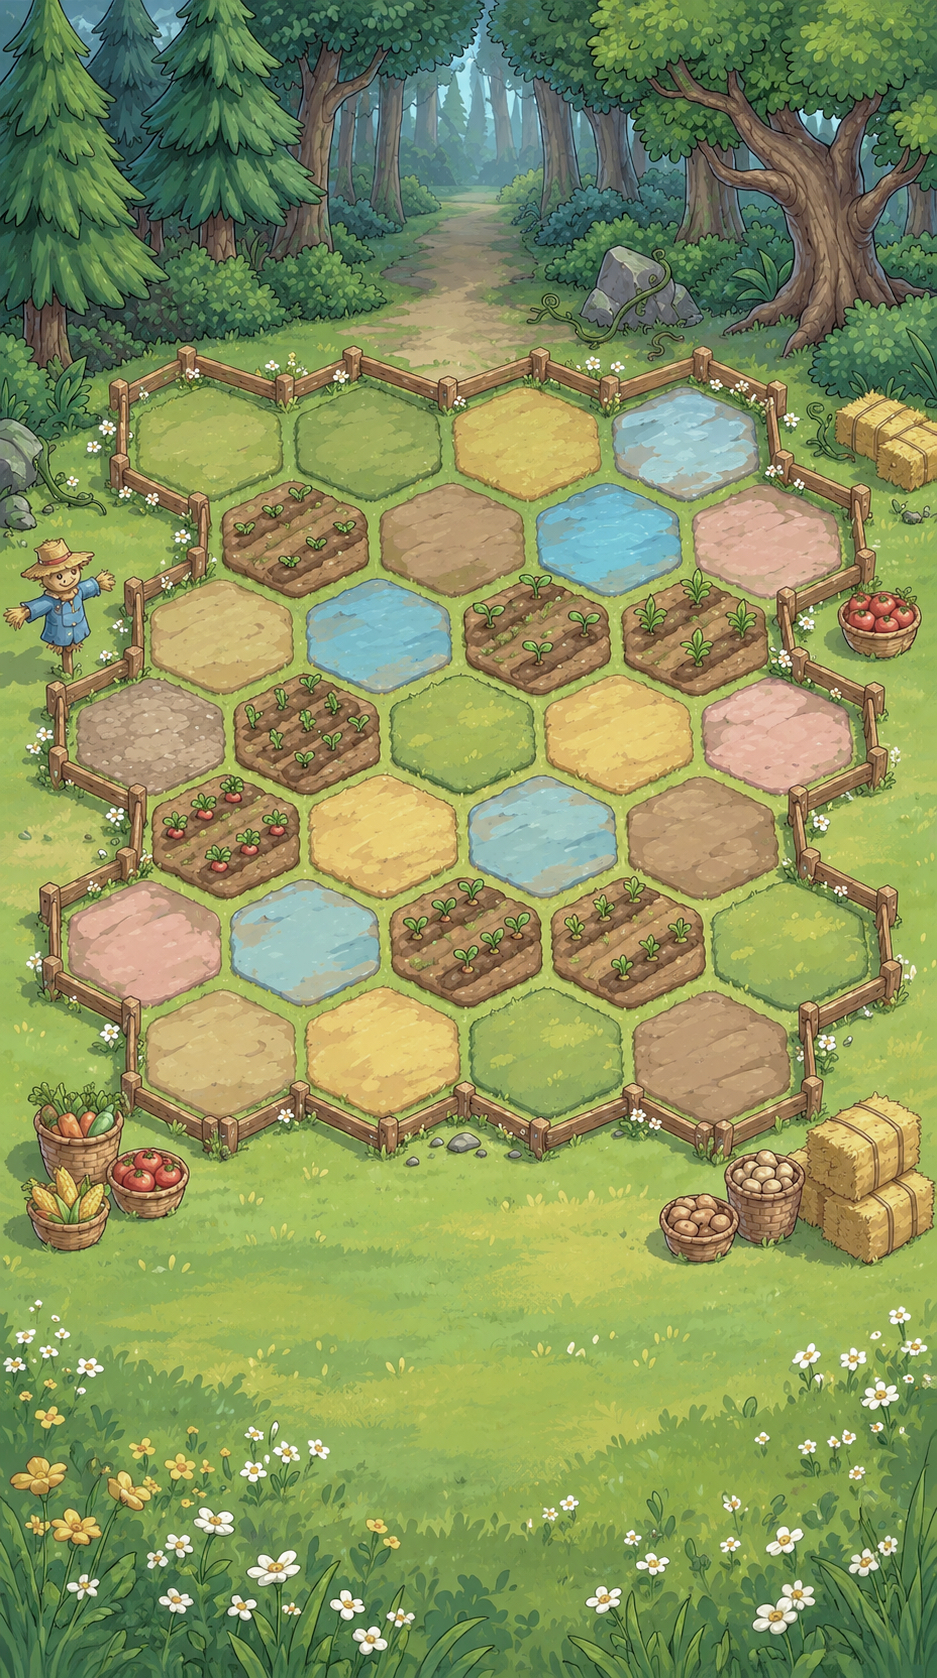
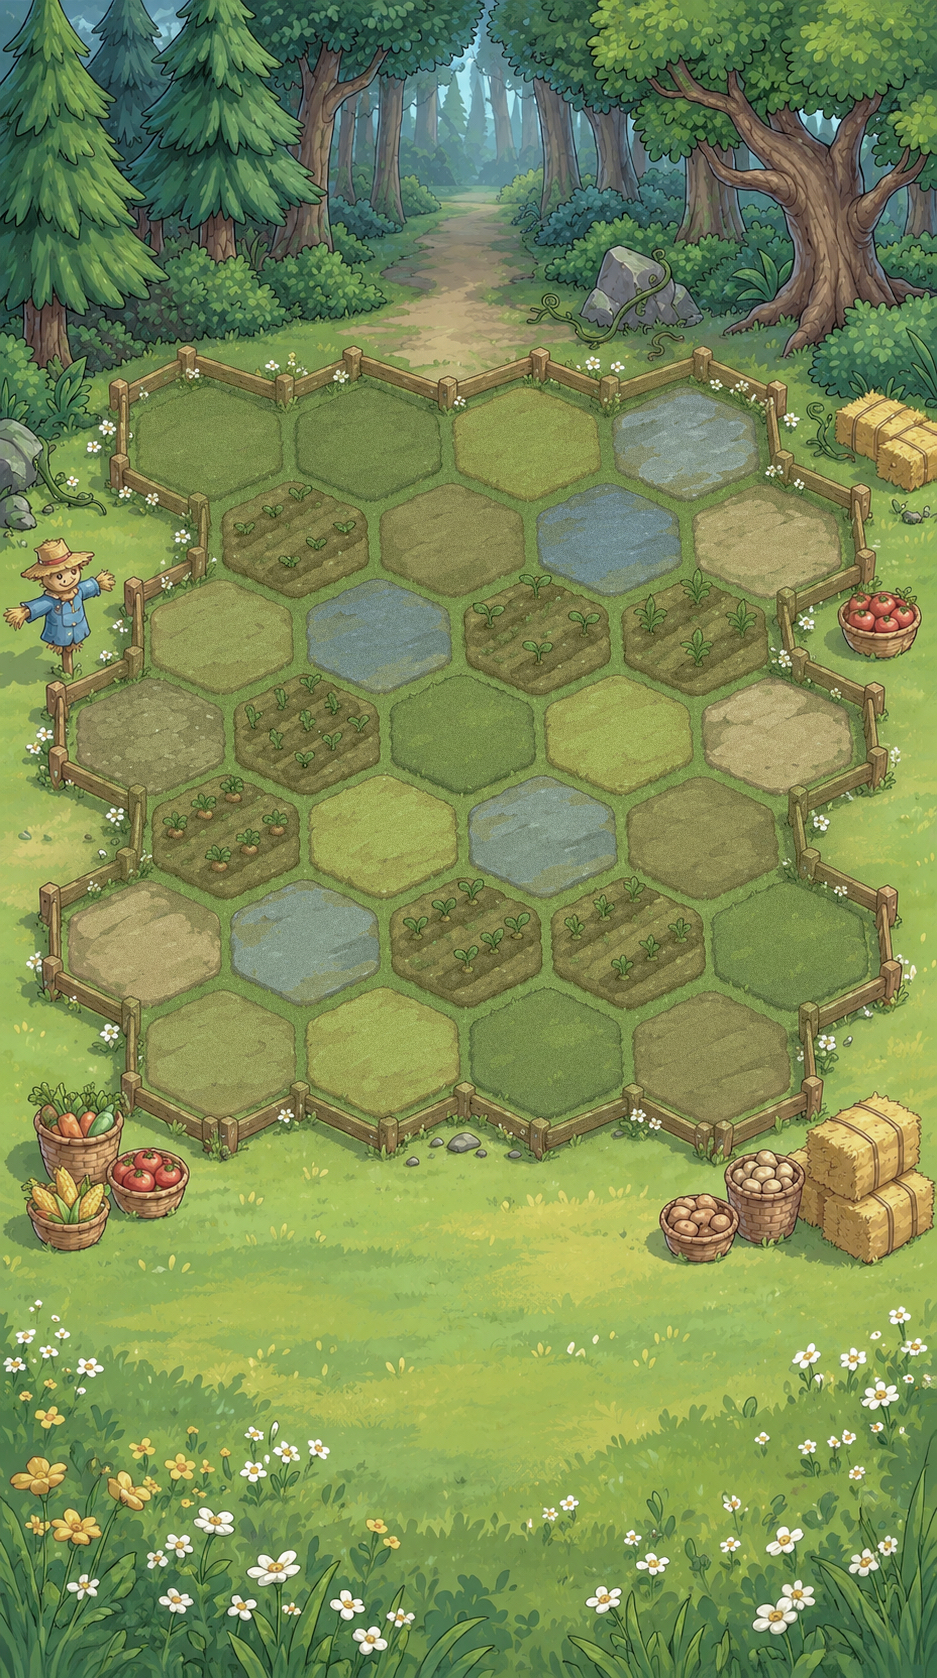
feat: predator summon poofs and thrown pebbles
- predators arrive in a summon poof when each round opens
- ranged attackers throw a small pebble in a short arc
- new board painting

Changed region(s): [[0.0619, 0.2169, 0.9594, 0.6818]]

diff --git a/lib/ui/game/widgets/match_field/units/enemy_units_layer.dart b/lib/ui/game/widgets/match_field/units/enemy_units_layer.dart
@@ -1,44 +1,90 @@
 import 'package:flutter/widgets.dart';
+import 'package:going_wild/domain/models/board/position.dart';
 import 'package:going_wild/domain/models/match_progress/match_progress.dart';
 import 'package:going_wild/ui/game/widgets/board_scene/board_scene_layout.dart';
+import 'package:going_wild/ui/game/widgets/match_field/summons/field_summon_poofs.dart';
 import 'package:going_wild/ui/game/widgets/match_field/units/field_unit.dart';
 import 'package:going_wild/ui/game/widgets/match_field/units/field_unit_status.dart';
 import 'package:going_wild/ui/game/widgets/match_field/units/field_unit_token.dart';
+import 'package:going_wild/ui/game/widgets/summon/summon_appear.dart';
 import 'package:going_wild/ui/game/widgets/unit_sheet/unit_sheet.dart';
 import 'package:going_wild/ui/game/widgets/unit_sheet/unit_side.dart';
 
-class EnemyUnitsLayer extends StatelessWidget {
+class EnemyUnitsLayer extends StatefulWidget {
   final double scale;
   final bool isDragActive;
   final MatchProgress matchProgress;
   const EnemyUnitsLayer({required this.scale, required this.isDragActive, required this.matchProgress, super.key});
 
   @override
+  State<EnemyUnitsLayer> createState() => _EnemyUnitsLayerState();
+}
+
+class _EnemyUnitsLayerState extends State<EnemyUnitsLayer> {
+  var _nextSummonId = 0;
+  var _summonIds = <Position, int>{};
+
+  @override
+  void initState() {
+    super.initState();
+    _summonWave();
+  }
+
+  @override
+  void didUpdateWidget(EnemyUnitsLayer oldWidget) {
+    super.didUpdateWidget(oldWidget);
+    if (widget.matchProgress.currentRoundNumber != oldWidget.matchProgress.currentRoundNumber) _summonWave();
+  }
+
+  void _summonWave() {
+    _summonIds = {for (final placement in widget.matchProgress.currentWave.enemies) placement.position: _nextSummonId++};
+  }
+
+  void _finishSummon(Position position, int summonId) {
+    if (_summonIds[position] != summonId) return;
+    setState(() => _summonIds = {..._summonIds}..remove(position));
+  }
+
+  @override
   Widget build(BuildContext context) {
-    final engines = matchProgress.phase.engines;
+    final scale = widget.scale;
+    final engines = widget.matchProgress.phase.engines;
     final board = engines.combatEngine.board;
+    final summonIds = MediaQuery.disableAnimationsOf(context) ? const <Position, int>{} : _summonIds;
 
     return IgnorePointer(
-      ignoring: isDragActive,
+      ignoring: widget.isDragActive,
       child: Stack(
+        clipBehavior: Clip.none,
         children: [
-          for (final placement in matchProgress.currentWave.enemies)
+          for (final placement in widget.matchProgress.currentWave.enemies)
             Positioned.fromRect(
               rect: BoardSceneLayout.cellRectOf(board, placement.position, scale: scale),
               child: Center(
-                child: GestureDetector(
-                  onTap: () => presentUnitSheet(context, engines: engines, side: UnitSide.enemy, characterCopy: placement.characterCopy),
-                  child: FieldUnit(
-                    side: FieldUnitSide.enemy,
-                    diameter: fieldTokenDiameterFor(scale),
-                    characterCopy: placement.characterCopy,
-                    vitals: startingVitalsOf(
-                      engines.characterEngine.statsAtStars(placement.characterCopy.character, stars: placement.characterCopy.stars),
+                child: SummonAppear(
+                  summonId: summonIds[placement.position],
+                  child: GestureDetector(
+                    onTap: () => presentUnitSheet(context, engines: engines, side: UnitSide.enemy, characterCopy: placement.characterCopy),
+                    child: FieldUnit(
+                      side: FieldUnitSide.enemy,
+                      diameter: fieldTokenDiameterFor(scale),
+                      characterCopy: placement.characterCopy,
+                      vitals: startingVitalsOf(
+                        engines.characterEngine.statsAtStars(placement.characterCopy.character, stars: placement.characterCopy.stars),
+                      ),
                     ),
                   ),
                 ),
               ),
             ),
+          Positioned.fill(
+            child: FieldSummonPoofs(
+              board: board,
+              scale: scale,
+              summonIds: summonIds,
+              onSummonFinished: _finishSummon,
+            ),
+          ),
         ],
       ),
     );

diff --git a/test/ui/game/widgets/match_field/ranged_attacks_test.dart b/test/ui/game/widgets/match_field/ranged_attacks_test.dart
@@ -1,0 +1,72 @@
+import 'package:flutter/material.dart';
+import 'package:flutter_test/flutter_test.dart';
+import 'package:going_wild/content/character/team/team.dart';
+import 'package:going_wild/domain/models/board/placement.dart';
+import 'package:going_wild/domain/models/board/position.dart';
+import 'package:going_wild/domain/models/character/character_copy.dart';
+import 'package:going_wild/domain/models/combat_history/entries/combat_history_entry.dart';
+import 'package:going_wild/ui/core/localization/configure_plural_resolvers.dart';
+import 'package:going_wild/ui/game/view_models/combat_playback/states/combat_playback_state.dart';
+import 'package:going_wild/ui/game/widgets/match_field/combat/projectiles/thrown_pebble.dart';
+
+import '../match_shelves/fight_shelf_test.dart';
+
+void main() {
+  setUpAll(configurePluralResolvers);
+
+  testWidgets('every ranged attack throws a pebble from the attacker to its target, melee attacks throw nothing', (tester) async {
+    final (matchRepository, combatPlaybackBloc, clock) = await showMatch(tester);
+    final matchProgress = matchRepository.currentMatchProgress!;
+    matchRepository.replaceMatchProgress(
+      matchProgress.createCopyWith(
+        playerRoster: matchProgress.playerRoster.createCopyWith(
+          placements: const [
+            Placement(
+              position: Position(row: 4, column: 1),
+              characterCopy: CharacterCopy(stars: 2, character: bull),
+            ),
+            Placement(
+              position: Position(row: 6, column: 2),
+              characterCopy: CharacterCopy(stars: 2, character: queenBee),
+            ),
+          ],
+        ),
+      ),
+    );
+    await tester.pump();
+
+    await tester.tap(find.text('Lutar!'));
+    await tester.pump();
+    await tester.pump(const Duration(seconds: 3));
+    await tester.pump(const Duration(milliseconds: 800));
+    await tester.pump(const Duration(milliseconds: 300));
+    await tester.pump();
+
+    var rangedAttacks = 0;
+    var meleeAttacks = 0;
+    while (combatPlaybackBloc.state is PlayingCombatPlaybackState) {
+      clock.beat();
+      await tester.pump();
+
+      final playbackState = combatPlaybackBloc.state;
+      if (playbackState is! PlayingCombatPlaybackState) break;
+      final rangesById = {for (final combatant in playbackState.currentFrame.combatants) combatant.id: combatant.attackRange};
+      for (final attack in playbackState.entriesSincePreviousTick.whereType<AttackLandedHistoryEntry>()) {
+        if ((rangesById[attack.combatantId] ?? 0) > 1) {
+          rangedAttacks++;
+        } else {
+          meleeAttacks++;
+        }
+      }
+    }
+
+    expect(rangedAttacks, greaterThan(0));
+    expect(meleeAttacks, greaterThan(0));
+    expect(find.byType(ThrownPebble), findsNWidgets(rangedAttacks));
+
+    await tester.pump(const Duration(seconds: 1));
+    expect(find.byType(ThrownPebble), findsNothing);
+
+    await tester.pumpWidget(const SizedBox());
+  });
+}

diff --git a/lib/ui/game/widgets/match_field/combat/projectiles/ranged_attacks_layer.dart b/lib/ui/game/widgets/match_field/combat/projectiles/ranged_attacks_layer.dart
@@ -1,0 +1,68 @@
+import 'package:flutter/widgets.dart';
+import 'package:flutter_bloc/flutter_bloc.dart';
+import 'package:going_wild/domain/models/board/board.dart';
+import 'package:going_wild/domain/models/board/position.dart';
+import 'package:going_wild/domain/models/combat_history/entries/combat_history_entry.dart';
+import 'package:going_wild/ui/game/view_models/combat_playback/combat_playback_bloc.dart';
+import 'package:going_wild/ui/game/view_models/combat_playback/states/combat_playback_state.dart';
+import 'package:going_wild/ui/game/widgets/board_scene/board_scene_layout.dart';
+import 'package:going_wild/ui/game/widgets/match_field/combat/projectiles/thrown_pebble.dart';
+
+const _meleeRange = 1;
+
+typedef _Throw = ({int id, Position from, Position to});
+
+class RangedAttacksLayer extends StatefulWidget {
+  final Board board;
+  final double scale;
+  const RangedAttacksLayer({required this.board, required this.scale, super.key});
+
+  @override
+  State<RangedAttacksLayer> createState() => _RangedAttacksLayerState();
+}
+
+class _RangedAttacksLayerState extends State<RangedAttacksLayer> {
+  var _nextThrowId = 0;
+  final _throws = <_Throw>[];
+
+  void _throwPebblesOf(BuildContext context, CombatPlaybackState playbackState) {
+    if (playbackState is! PlayingCombatPlaybackState || MediaQuery.disableAnimationsOf(context)) return;
+
+    final combatantsById = {for (final combatant in playbackState.currentFrame.combatants) combatant.id: combatant};
+    final newThrows = <_Throw>[
+      for (final attack in playbackState.entriesSincePreviousTick.whereType<AttackLandedHistoryEntry>())
+        if ((combatantsById[attack.combatantId], combatantsById[attack.targetCombatantId]) case (final attacker?, final target?)
+            when attacker.attackRange > _meleeRange)
+          (id: _nextThrowId++, from: attacker.position, to: target.position),
+    ];
+
+    if (newThrows.isNotEmpty) setState(() => _throws.addAll(newThrows));
+  }
+
+  void _removeThrow(int throwId) => setState(() => _throws.removeWhere((pebbleThrow) => pebbleThrow.id == throwId));
+
+  Offset _centerOf(Position position) => BoardSceneLayout.cellRectOf(widget.board, position, scale: widget.scale).center;
+
+  @override
+  Widget build(BuildContext context) {
+    return BlocListener<CombatPlaybackBloc, CombatPlaybackState>(
+      listener: _throwPebblesOf,
+      child: IgnorePointer(
+        child: Stack(
+          clipBehavior: Clip.none,
+          children: [
+            for (final pebbleThrow in _throws)
+              Positioned.fill(
+                key: ValueKey(pebbleThrow.id),
+                child: ThrownPebble(
+                  from: _centerOf(pebbleThrow.from),
+                  to: _centerOf(pebbleThrow.to),
+                  onLanded: () => _removeThrow(pebbleThrow.id),
+                ),
+              ),
+          ],
+        ),
+      ),
+    );
+  }
+}

diff --git a/lib/ui/game/widgets/match_field/combat/projectiles/thrown_pebble.dart b/lib/ui/game/widgets/match_field/combat/projectiles/thrown_pebble.dart
@@ -1,0 +1,67 @@
+import 'dart:math';
+
+import 'package:flutter/widgets.dart';
+import 'package:going_wild/ui/core/design/app_colors.dart';
+
+const _flightDuration = Duration(milliseconds: 260);
+const _pebbleDiameter = 4.0;
+const _arcHeightToDistance = 0.18;
+
+class ThrownPebble extends StatefulWidget {
+  final Offset from;
+  final Offset to;
+  final VoidCallback onLanded;
+  const ThrownPebble({required this.from, required this.to, required this.onLanded, super.key});
+
+  @override
+  State<ThrownPebble> createState() => _ThrownPebbleState();
+}
+
+class _ThrownPebbleState extends State<ThrownPebble> with SingleTickerProviderStateMixin {
+  late final _flightController = AnimationController(vsync: this, duration: _flightDuration);
+
+  @override
+  void initState() {
+    super.initState();
+    _flightController.forward().whenComplete(() {
+      if (mounted) widget.onLanded();
+    });
+  }
+
+  @override
+  void dispose() {
+    _flightController.dispose();
+    super.dispose();
+  }
+
+  Offset _positionAt(double progress) {
+    final arcHeight = (widget.to - widget.from).distance * _arcHeightToDistance;
+    final lift = 4 * progress * (1 - progress) * arcHeight;
+    return Offset.lerp(widget.from, widget.to, progress)! - Offset(0, lift);
+  }
+
+  @override
+  Widget build(BuildContext context) {
+    return AnimatedBuilder(
+      animation: _flightController,
+      child: const DecoratedBox(
+        decoration: BoxDecoration(shape: BoxShape.circle, color: AppColors.ink),
+        child: SizedBox.square(dimension: _pebbleDiameter),
+      ),
+      builder: (context, pebble) {
+        final position = _positionAt(min(_flightController.value, 1));
+
+        return Stack(
+          clipBehavior: Clip.none,
+          children: [
+            Positioned(
+              left: position.dx - _pebbleDiameter / 2,
+              top: position.dy - _pebbleDiameter / 2,
+              child: pebble!,
+            ),
+          ],
+        );
+      },
+    );
+  }
+}

diff --git a/lib/ui/game/widgets/match_field/match_field.dart b/lib/ui/game/widgets/match_field/match_field.dart
@@ -19,6 +19,7 @@ import 'package:going_wild/ui/game/view_models/roster_drag/roster_drag.dart';
 import 'package:going_wild/ui/game/view_models/roster_drag/roster_drag_view_model.dart';
 import 'package:going_wild/ui/game/widgets/match_field/combat/combat_units_layer.dart';
 import 'package:going_wild/ui/game/widgets/match_field/combat/damage/enemy_damage_numbers_layer.dart';
+import 'package:going_wild/ui/game/widgets/match_field/combat/projectiles/ranged_attacks_layer.dart';
 import 'package:going_wild/ui/game/widgets/match_field/drop_target/field_drop_target.dart';
 import 'package:going_wild/ui/game/widgets/match_field/rejection/field_rejection_toast.dart';
 import 'package:going_wild/ui/game/widgets/match_field/summons/field_summon_poofs.dart';
@@ -129,6 +130,12 @@ class _MatchFieldState extends State<MatchField> {
               scale: scale,
               combatFrame: combatFrame,
               matchProgress: matchProgress,
+            ),
+          ),
+          Positioned.fill(
+            child: RangedAttacksLayer(
+              scale: scale,
+              board: matchProgress.phase.engines.combatEngine.board,
             ),
           ),
           Positioned.fill(

diff --git a/test/ui/game/widgets/match_field/match_field_test.dart b/test/ui/game/widgets/match_field/match_field_test.dart
@@ -234,9 +234,22 @@ void main() {
     await tester.pumpWidget(const SizedBox());
   });
 
+  testWidgets('the predators of the round arrive in a puff of smoke that goes away by itself', (tester) async {
+    final matchRepository = await showGameScreen(tester);
+    final enemyCount = matchRepository.currentMatchProgress!.currentWave.enemies.length;
+
+    expect(find.byType(SummonPoof), findsNWidgets(enemyCount));
+
+    await tester.pump(const Duration(seconds: 1));
+    expect(find.byType(SummonPoof), findsNothing);
+
+    await tester.pumpWidget(const SizedBox());
+  });
+
   testWidgets('a quick tap on a predator opens its sheet without the sale', (tester) async {
     final matchRepository = await showGameScreen(tester);
     final enemyPosition = matchRepository.currentMatchProgress!.currentWave.enemies.first.position;
+    await tester.pump(const Duration(seconds: 1));
 
     await tester.tapAt(cellCenterOf(tester, enemyPosition));
     await tester.pump();

diff --git a/test/ui/game/widgets/match_field/enemy_damage_numbers_test.dart b/test/ui/game/widgets/match_field/enemy_damage_numbers_test.dart
@@ -23,7 +23,12 @@ void main() {
     matchRepository.replaceMatchProgress(
       matchProgress.createCopyWith(
         playerRoster: matchProgress.playerRoster.createCopyWith(
-          placements: const [Placement(position: Position(row: 4, column: 1), characterCopy: CharacterCopy(stars: 2, character: bull))],
+          placements: const [
+            Placement(
+              position: Position(row: 4, column: 1),
+              characterCopy: CharacterCopy(stars: 2, character: bull),
+            ),
+          ],
         ),
       ),
     );
